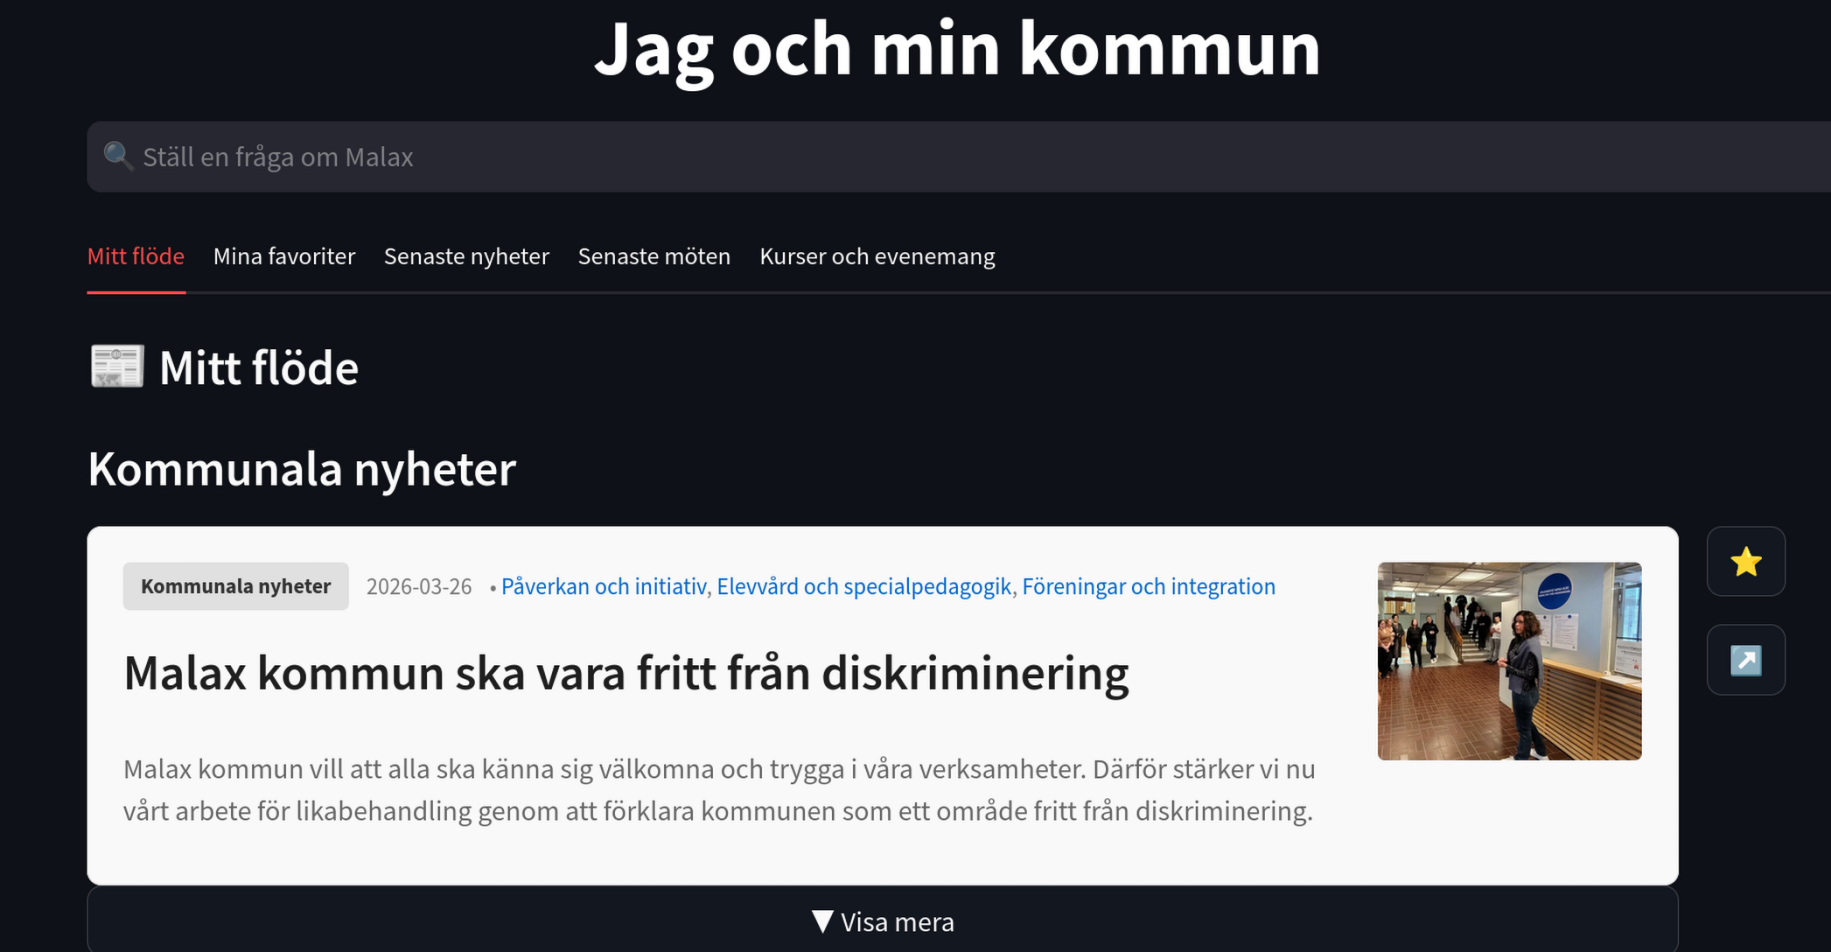
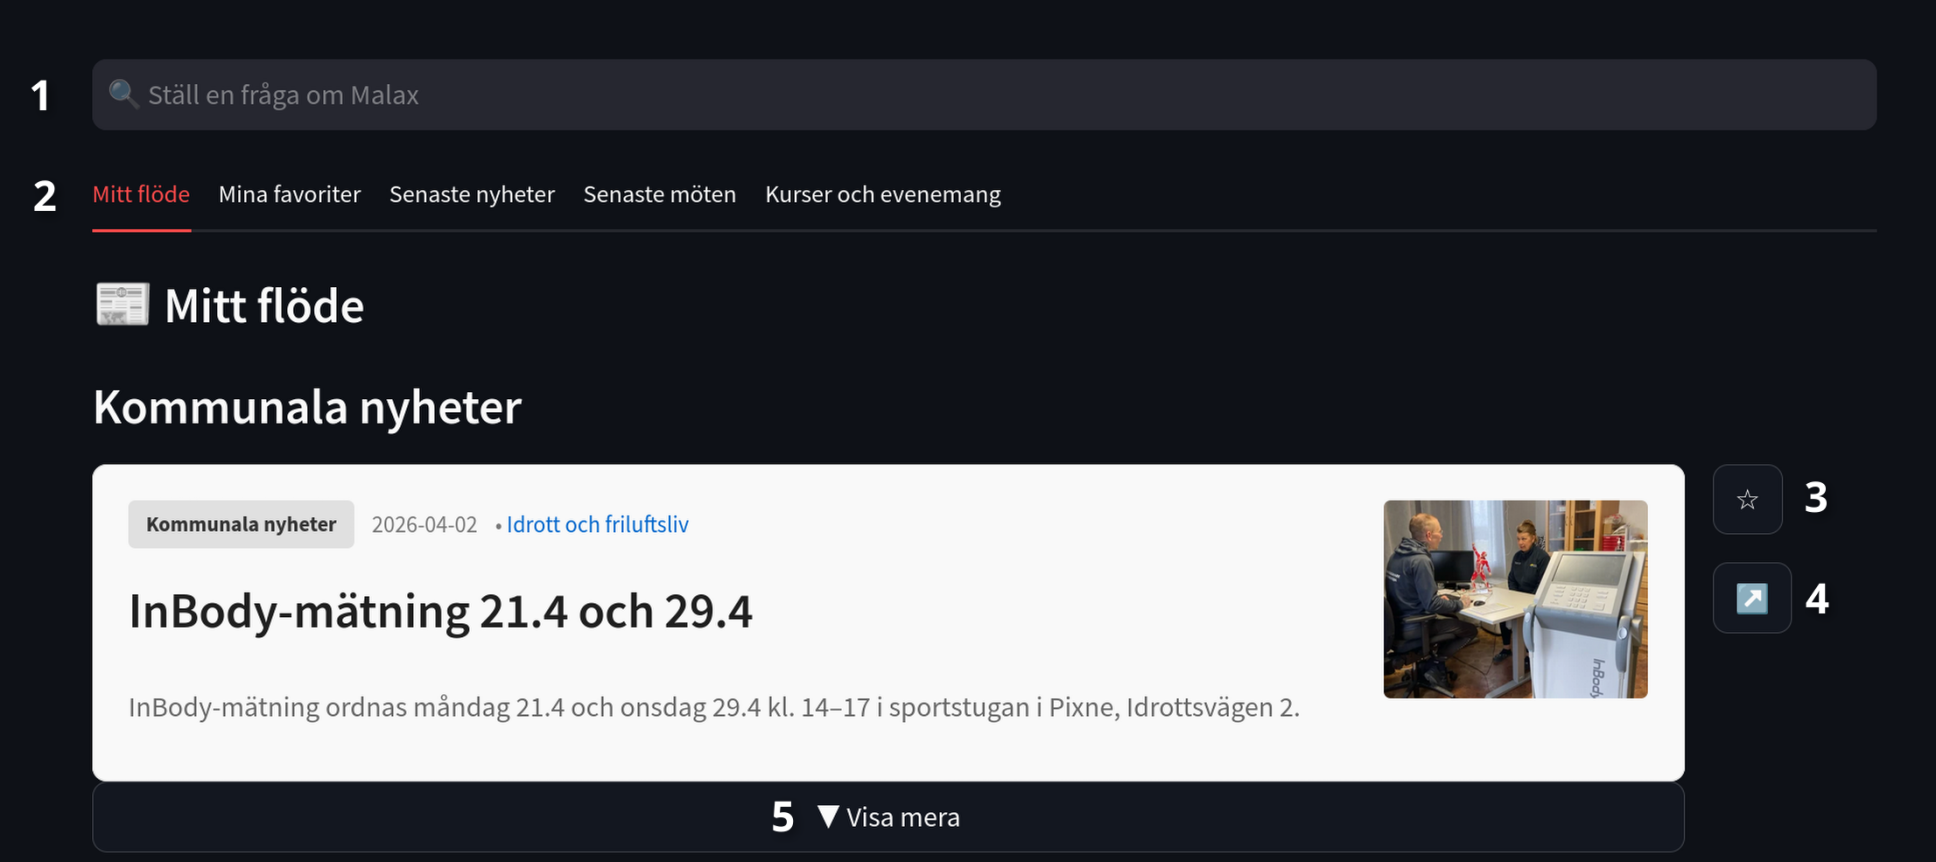
Updated tutorial

Changed region(s): [[0.0311, 0.4524, 0.965, 0.9954], [0.0, 0.0302, 1.0, 0.4223], [0.0623, 0.6636, 0.6226, 0.7541]]

diff --git a/src/chatbot/ui_components.py b/src/chatbot/ui_components.py
@@ -20,17 +20,34 @@ def display_tutorial():
     tutorial_pages = [
         {
             "title": "Guide",
-            "text": "Detta är din personliga kommunguide. Här kan du hitta nyheter, möten och information som är relevant för dig.",
+            "text": """Här är en kort handledning hur ditt personliga flöde fungerar.<br>
+            1. I sökbaren kan du ställa frågor till vår AI chatbot gällande Malax kommun nyheter, möten mm.<br>
+            2. Här kan du byta mellan flöden.<br>
+                &emsp;Mitt flöde: Ditt personliga flöde baserat på dina val av kategorier och innehållstyper.<br>
+                &emsp;Mina favoriter: Dina sparade favoritartiklar.<br>
+                &emsp;Senaste nyheter: De senaste kommunala nyheterna oberoende av dina personliga val.<br>
+                &emsp;Senaste möten: De senaste mötesprotokollen oberoende av dina personliga val.<br>
+                &emsp;Kurser och evenemang: Kommande kurser och evenemang.<br>
+            3. Klicka på sjtärnan bredvid en artikel för att spara som favorit.<br>
+            4. Dela artikeln (OBS: Inte ännu implementerad).<br>
+            5. Klicka på Visa mera för att se fulla artikeln.""" ,
             "image": os.path.join(project_root, "assets", "Tutorial1.png")
         },
         {
             "title": "Guide",
-            "text": "Välj vilka kategorier du vill följa och vilken typ av innehåll som intresserar dig mest. Du kan när som helst ändra dina inställningar.",
+            "text": """1. Indikerar vilken typ av artikel det är (kriskommunikation, nyhet, mötesprotokoll, kurs).<br>
+            2. Kategorier artikeln hör till. Kategorierna kan klickas för att visa all senaste information från den kategorin.<br>
+            3. Länk till var artikeln är tagen från, kan vara t.ex. yle eller malax.fi.<br>
+            4. Här kan du ställa direkta frågor om artikeln från chatbotten.<br>""",
             "image": os.path.join(project_root, "assets", "Tutorial2.png")
         },
         {
             "title": "Guide",
-            "text": "Använd sökfunktionen för att ställa frågor om Malax kommun. Vår AI-assistent hjälper dig att hitta den information du behöver.",
+            "text": """Längst ner på sidan finns dessa knappar:<br>
+            1. Laddar in flera möten/nyheter/kurser beroende på vilket flöde som visas.<br>
+            2. Visa den här guiden igen ifall du behöver hjälp.<br>
+            3. Ändra dina kategori inställningar.<br>
+            4. Återställ allt tillbaka till början, det här tar bort alla dina favoriter och valda kategorier.<br>""",
             "image": os.path.join(project_root, "assets", "Tutorial3.png")
         }
     ]
@@ -43,11 +60,11 @@ def display_tutorial():
     page_data = tutorial_pages[current_page]
     
     st.markdown(f"<h2 style='text-align: center;'>{page_data['title']}</h2>", unsafe_allow_html=True)
-    st.markdown(f"<p style='text-align: center; font-size: 16px;'>{page_data['text']}</p>", unsafe_allow_html=True)
+    st.markdown(f"<p style='text-align: left; font-size: 16px;'>{page_data['text']}</p>", unsafe_allow_html=True)
     
     # Display image
     try:
-        st.image(page_data['image'], use_container_width=True)
+        st.image(page_data['image'], width=800)
     except Exception as e:
         st.error(f"Kunde inte ladda bild: {e}")
     

diff --git a/README.md b/README.md
@@ -3,7 +3,7 @@
 
 Democracy Chatbot is a project that aims to extract structured data from unstructured meeting protocols and create a knowledge graph for efficient data retrieval and querying. The project utilizes a Large Language Model (LLM) to extract metadata from PDF files obtained by scraping the website of the city of Malax. The extracted data is then converted into a knowledge graph, enabling quick access to the information. The project also includes scraping for news and MI courses, that along with the meeting protocols get categorized in the database. The database content can then be viewed using an streamlit app with a personalized feed and a chatbot that can answer user question based on the data.
 
-## Docker setup
+## Docker Setup
 If database setup is needed use the full project setup, currently the docker setup is only supported for running the app itself.
 
 To setup project first make sure docker, docker compose and buildx plugin is installed. If using docker desktop these should all be installed by default. Check docker documentation for more info: https://docs.docker.com/.
@@ -26,7 +26,7 @@ For setting up the app, follow the steps below:
     NEO4J_PASSWORD=<neo4j-password>
     NEO4J_DATABASE=<neo4j-database>
     ```
-    There is an example file in the config folder called secret_example.env. You can copy the contents of this file and replace the placeholders with your own values.
+    There is an example file in the config folder called secret_example.env. You can copy the contents of this file and replace the placeholders with your own values. Note that for the variables to work properly with docker, only the variable names and values should be in the file. Don't add any comments or extra characters or else it will break.
 
 1. Navigate to the root of the project folder and build the docker image by executing the following command:
 
@@ -125,7 +125,7 @@ The project directory contains the following files and folders:
 ---
 
 ## Project Progress
-NOT UP TO DATE
+OUTDATED
 
 ### Data Processing Workflow
 
